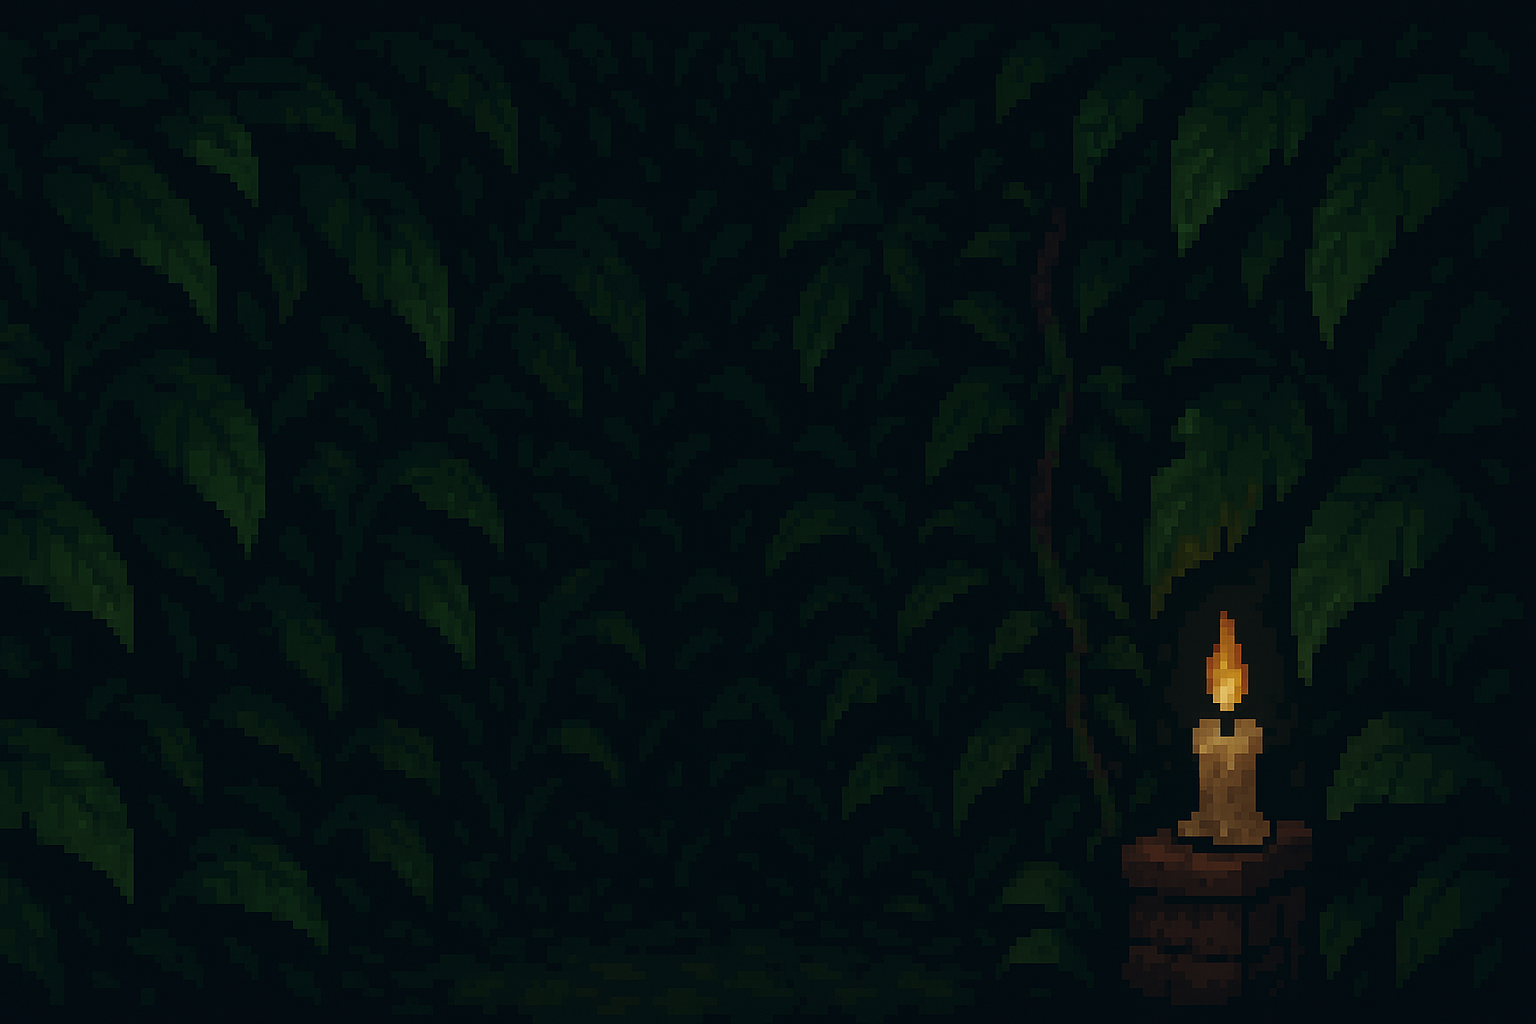
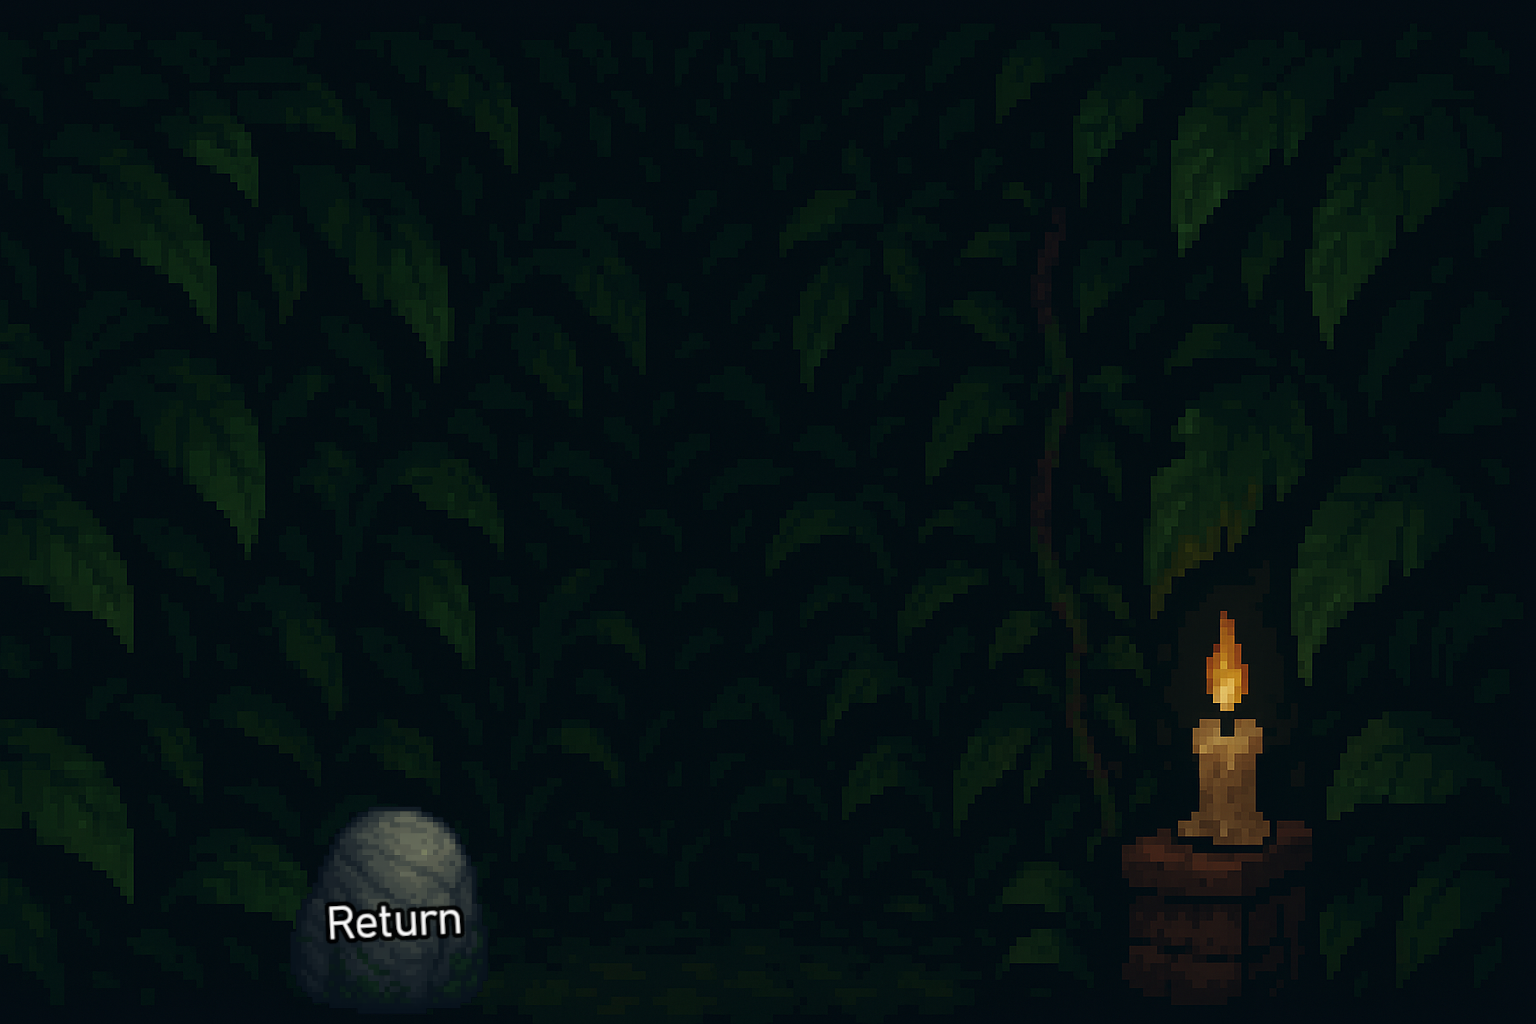
powrot dodany

Changed region(s): [[0.1875, 0.7812, 0.3125, 0.9688]]

diff --git a/Projekt/menuhub.cpp b/Projekt/menuhub.cpp
@@ -3,6 +3,7 @@
 
 Menu::~Menu()
 {
+	UnloadFont(font);
 }
 void Menu::Draw()
 {
@@ -12,6 +13,16 @@ void Menu::LoadTextures(fs::path filePath)
 {
 	fs::path wholePath = background_assets_path / filePath;
 	BackgroundTexture=LoadTexture(wholePath.string().c_str());
+}
+bool Menu::isReturnButtonClicked()
+{
+	Vector2 mousePos = GetMousePosition();
+	if (CheckCollisionPointRec(mousePos, ReturnToPrieviousMenuButton))
+	{
+		cout << "Kliknieto powrot" << endl;
+		return true;
+	}
+	return false;
 }
 
 StartingMenu::StartingMenu()
@@ -26,7 +37,6 @@ StartingMenu::~StartingMenu()
 LoginMenu::LoginMenu()
 {
 	LoadTextures("backgroundLOGIN.png");
-	font = LoadFontEx("bahnschrift.ttf", 80, 0, 0);
 	LoginMenu_ConfirmArea = { 541,795,852-541,985-795 };
 	LoginMenu_UsernameBarArea = { 382, 216, 1032-382, 354-216 };
 	LoginMenu_PasswordBarArea = { 382, 495, 1032-382, 633-495 };
@@ -40,7 +50,6 @@ LoginMenu::LoginMenu()
 LoginMenu::~LoginMenu()
 {
 	UnloadTexture(BackgroundTexture);
-	UnloadFont(font);
 }
 int LoginMenu::isButtonClicked()
 {
@@ -275,7 +284,6 @@ MainMenu::~MainMenu()
 {
 	UnloadTexture(BackgroundTexture);
 }
-
 int MainMenu::isButtonClicked()
 {
 	Vector2 mousePos = GetMousePosition();
@@ -284,12 +292,12 @@ int MainMenu::isButtonClicked()
 		cout << "Kliknieto nowa giera" << endl;
 		return NEWGAME_BUTTON;
 	}
-	/*
+	
 	if(CheckCollisionPointRec(mousePos, Menu_RulesButton))
 	{
+		cout << "Kliknieto rules" << endl;
 		return RULES_BUTTON;
 	}
-	*/
 	if (CheckCollisionPointRec(mousePos, Menu_UnlockedItemsButton))
 	{
 		cout << "Kilnieto unlocked items" << endl;

diff --git a/Projekt/menuhub.h b/Projekt/menuhub.h
@@ -27,11 +27,13 @@ class Menu
 public:
 	virtual void Draw();
 	virtual void LoadTextures(fs::path filePath);
+	virtual bool isReturnButtonClicked();
 	virtual ~Menu();
 protected:
 	fs::path background_assets_path = fs::current_path() / "assets" / "background_assets";
-	Texture2D BackgroundTexture;
-	Rectangle ReturnToPrieviousMenuButton;
+	Font font = LoadFontEx("bahnschrift.ttf", 80, 0, 0);
+	Texture2D BackgroundTexture; 
+	Rectangle ReturnToPrieviousMenuButton = { 292,810,488-292,1005 - 810 };
 };
 class StartingMenu : public Menu
 {
@@ -47,7 +49,6 @@ public:
 	~LoginMenu();
 	void handleLoginMenuLogic(int& setAction, CurrentState& gameState);
 private:
-	Font font;
 	void insertData(string& name);
 	void DrawLogin(string name, string location);
 	bool checkIsLoginCorrect();

diff --git a/Projekt/Projekt.cpp b/Projekt/Projekt.cpp
@@ -63,12 +63,23 @@ int main()
 			break;
 		case CurrentState::RULES_MENU:
 			rulesTab.Draw();
+			if (IsMouseButtonPressed(MOUSE_BUTTON_LEFT) && rulesTab.isReturnButtonClicked())
+			{
+				gameState = CurrentState::MAIN_MENU;
+			}
 			break;
 		case CurrentState::UNLOCKED_ITEMS_MENU:
 			unlockedTab.Draw();
+			if (IsMouseButtonPressed(MOUSE_BUTTON_LEFT) && unlockedTab.isReturnButtonClicked())
+			{
+				gameState = CurrentState::MAIN_MENU;
+			}
 			break;
 		case CurrentState::SCORE_MENU:
 			scoresTab.Draw();
+			if (IsMouseButtonPressed(MOUSE_BUTTON_LEFT) && scoresTab.isReturnButtonClicked()) {
+				gameState = CurrentState::MAIN_MENU;
+			}
 			break;
 		case CurrentState::GAMEPLAY:
 			game.InputHandle();
